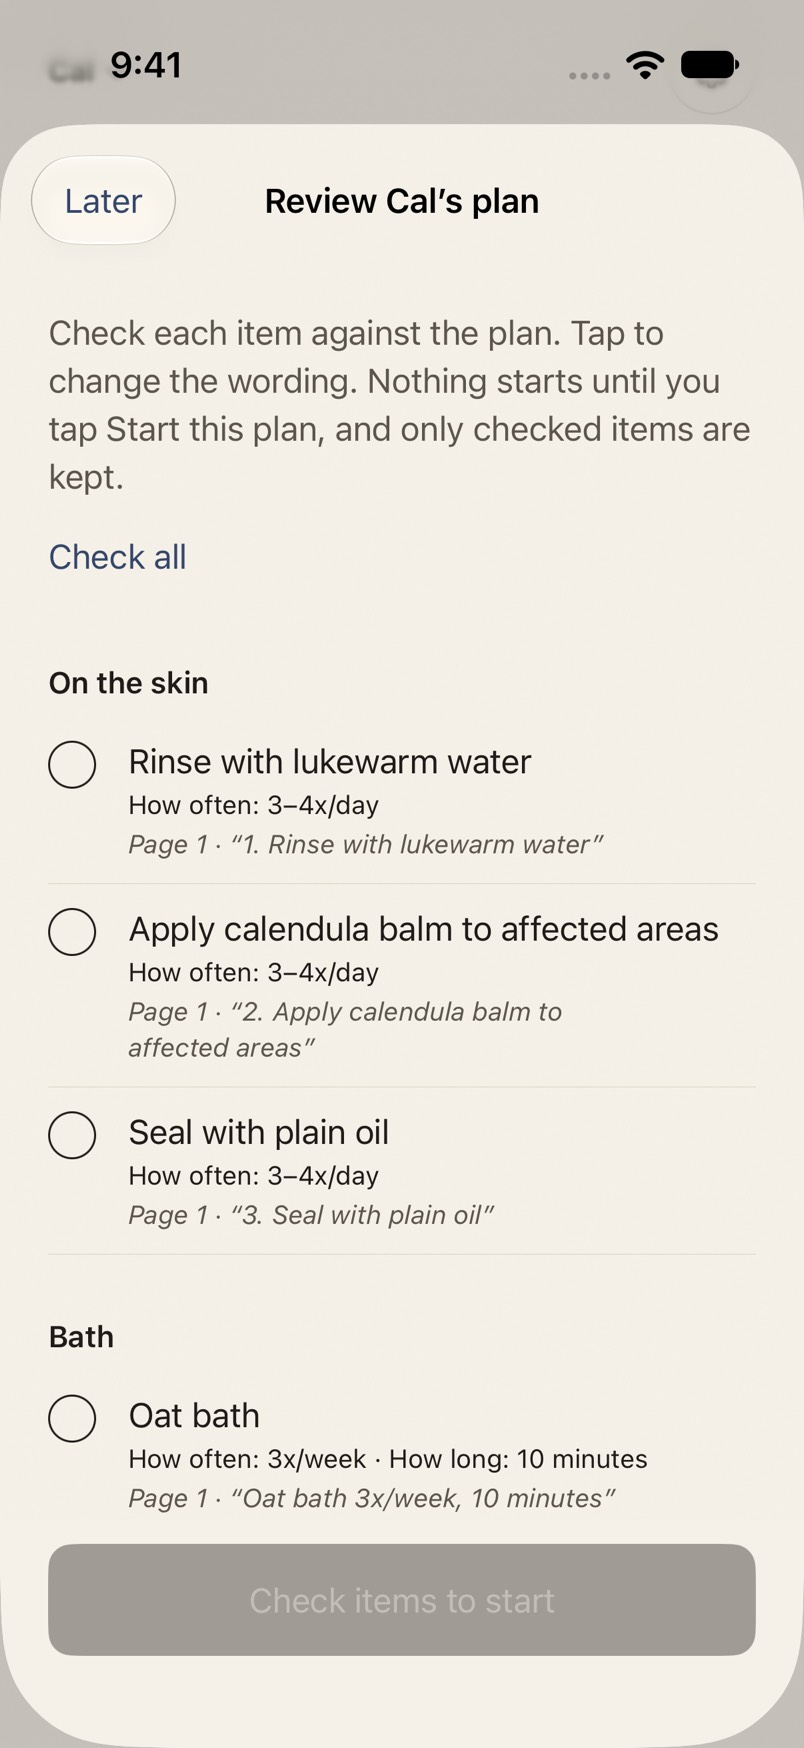
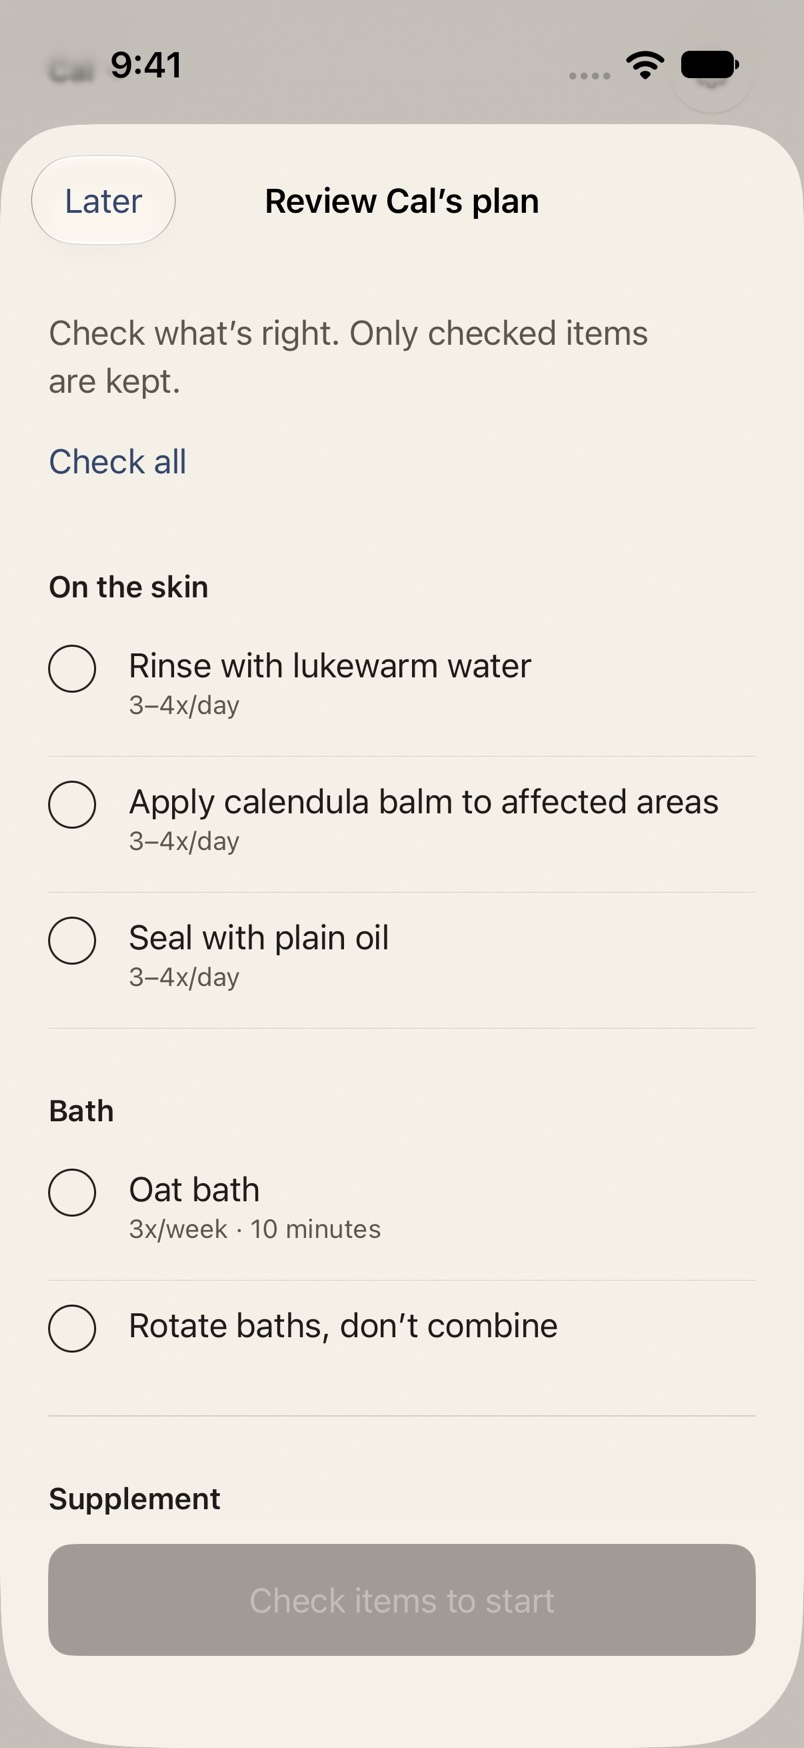
Care plan review: short and simple

diff --git a/App/Plans/PlanReviewView.swift b/App/Plans/PlanReviewView.swift
@@ -21,7 +21,7 @@ struct PlanReviewView: View {
             ScrollView {
                 VStack(alignment: .leading, spacing: Spacing.section) {
                     VStack(alignment: .leading, spacing: Spacing.x2) {
-                        Text("Check each item against the plan. Tap to change the wording. Nothing starts until you tap Start this plan, and only checked items are kept.")
+                        Text("Check what’s right. Only checked items are kept.")
                             .textStyle(.body)
                             .foregroundStyle(palette.graphite)
                             .fixedSize(horizontal: false, vertical: true)
@@ -50,7 +50,7 @@ struct PlanReviewView: View {
                     if let problem {
                         Text(problem).textStyle(.body).foregroundStyle(palette.ink)
                     }
-                    Button("Discard this draft") { confirmingDiscard = true }
+                    Button("Discard") { confirmingDiscard = true }
                         .buttonStyle(.textLink)
                 }
                 .padding(.horizontal, Spacing.margin)
@@ -59,7 +59,7 @@ struct PlanReviewView: View {
             }
             .paperBackground()
             .safeAreaInset(edge: .bottom) {
-                Button(confirmed == 0 ? "Check items to start" : "Start this plan (\(confirmed))") { Task { await start() } }
+                Button(confirmed == 0 ? "Check items to start" : "Start plan (\(confirmed))") { Task { await start() } }
                     .buttonStyle(.primary)
                     .disabled(confirmed == 0)
                     .padding(.horizontal, Spacing.margin)
@@ -156,26 +156,23 @@ private struct ItemRow: View {
             .accessibilityHint("Checks this item against the plan.")
 
             Button(action: onEdit) {
-                VStack(alignment: .leading, spacing: Spacing.x1) {
+                VStack(alignment: .leading, spacing: 2) {
                     Text(item.text)
                         .textStyle(.body)
                         .foregroundStyle(palette.ink)
-                    let details = PlanDetail.allCases.compactMap { detail in item.value(detail).map { "\(detail.title): \($0)" } }
+                    // Just the values, no labels ("1/4 tsp · once daily · with breakfast"),
+                    // skipping any already in the item's name.
+                    let details = PlanDetail.allCases.compactMap { item.value($0) }
+                        .filter { !item.text.localizedCaseInsensitiveContains($0) }
                     if !details.isEmpty {
                         Text(details.joined(separator: " · "))
                             .textStyle(.meta)
-                            .foregroundStyle(palette.ink)
-                    }
-                    ForEach(item.blanks, id: \.self) { blank in
-                        Text("\(blank.title): your provider left this blank. Worth asking at your next visit.")
-                            .textStyle(.meta)
                             .foregroundStyle(palette.graphite)
                     }
-                    if let line = item.sourceLine {
-                        Text("\(item.sourcePage.map { "Page \($0) · " } ?? "")“\(line)”")
+                    if let blank = item.blanks.first {
+                        Text("No \(blank.noun) given, ask at next visit")
                             .textStyle(.meta)
-                            .italic()
-                            .foregroundStyle(palette.graphite)
+                            .foregroundStyle(palette.ochre)
                     }
                 }
                 .fixedSize(horizontal: false, vertical: true)
@@ -183,7 +180,7 @@ private struct ItemRow: View {
                 .contentShape(Rectangle())
             }
             .buttonStyle(.plain)
-            .accessibilityHint("Edit the wording.")
+            .accessibilityHint("Shows where it's from in the plan, and lets you edit it.")
         }
         .padding(.vertical, Spacing.x3)
         .overlay(alignment: .bottom) { palette.hairline.frame(height: Rule.width) }

diff --git a/App/Plans/AddPlanSheet.swift b/App/Plans/AddPlanSheet.swift
@@ -31,7 +31,7 @@ struct AddPlanSheet: View {
         NavigationStack {
             ScrollView {
                 VStack(alignment: .leading, spacing: Spacing.section) {
-                    Text("Add the plan \(child.name)’s provider gave you. You’ll check every item before anything starts.")
+                    Text("You’ll check each item before it starts.")
                         .textStyle(.body)
                         .foregroundStyle(palette.graphite)
                         .fixedSize(horizontal: false, vertical: true)
@@ -55,7 +55,7 @@ struct AddPlanSheet: View {
                         }
                     }
 
-                    Text("The photo or PDF stays on this phone. Only its words are sent to be read, and nothing is kept afterward. Not medical advice: this only organizes what your provider wrote.")
+                    Text("The file stays on your phone. Not medical advice.")
                         .textStyle(.meta)
                         .foregroundStyle(palette.graphite)
                         .fixedSize(horizontal: false, vertical: true)
@@ -127,7 +127,7 @@ struct AddPlanSheet: View {
 
     private var signInFirst: some View {
         VStack(alignment: .leading, spacing: Spacing.x3) {
-            Text("Reading a plan needs you signed in, once. It keeps the reading service fair for everyone. Your logs stay on this phone either way.")
+            Text("Sign in once to read plans.")
                 .textStyle(.body)
                 .foregroundStyle(palette.ink)
                 .fixedSize(horizontal: false, vertical: true)
@@ -177,12 +177,12 @@ struct AddPlanSheet: View {
 
     /// Reads the text on the phone, sends only the text, and saves a draft.
     private func read(_ extract: () async throws -> (text: String, file: String)) async {
-        stage = .reading("Reading the pages on this phone…")
+        stage = .reading("Reading the pages…")
         var file: String?
         do {
             let extracted = try await extract()
             file = extracted.file
-            stage = .reading("Picking out each item…")
+            stage = .reading("Finding each item…")
             let items = try await PlanReader.read(extracted.text)
             guard !items.isEmpty else {
                 PlanFiles.delete(file)

diff --git a/App/Plans/CarePlanSection.swift b/App/Plans/CarePlanSection.swift
@@ -20,11 +20,11 @@ struct CarePlanSection: View {
                 .accessibilityAddTraits(.isHeader)
             switch plan?.status {
             case .draft?:
-                row("Finish reviewing your plan", detail: plan.map(providerLine)) { reviewing = plan }
+                row("Finish checking your plan", detail: plan.map(providerLine)) { reviewing = plan }
             case .active?:
                 row("About this plan", detail: plan.map(providerLine)) { showingAbout = true }
             default:
-                Text("Add the plan from \(model.child?.name ?? "your child")’s provider. You check every item before it starts.")
+                Text("Scan or pick the plan from \(model.child?.name ?? "your child")’s provider.")
                     .textStyle(.body)
                     .foregroundStyle(palette.graphite)
                     .fixedSize(horizontal: false, vertical: true)

diff --git a/DesignReviewUITests/PlanReviewCaptureTests.swift b/DesignReviewUITests/PlanReviewCaptureTests.swift
@@ -14,7 +14,7 @@ final class PlanReviewCaptureTests: XCTestCase {
         app.swipeUp()
         sleep(1)
         Capture.screen("careplan-section-\(variant)")
-        app.buttons.matching(NSPredicate(format: "label BEGINSWITH %@", "Finish reviewing")).firstMatch.tap()
+        app.buttons.matching(NSPredicate(format: "label BEGINSWITH %@", "Finish checking")).firstMatch.tap()
         sleep(2)
         Capture.screen("careplan-review-\(variant)")
         app.buttons["Check all"].firstMatch.tap()

diff --git a/Core/Data/CarePlanKinds.swift b/Core/Data/CarePlanKinds.swift
@@ -48,6 +48,16 @@ public enum PlanDetail: String, Codable, Sendable, CaseIterable {
         case .duration: "How long"
         }
     }
+
+    /// For "No dose given": dose, schedule, time, length.
+    public var noun: String {
+        switch self {
+        case .dose: "dose"
+        case .frequency: "schedule"
+        case .timing: "time"
+        case .duration: "length"
+        }
+    }
 }
 
 extension PlanItemInfo {

diff --git a/UX.md b/UX.md
@@ -154,13 +154,13 @@ Job: follow the care plan without thinking about it.
    - Add: sign in once (Sign in with Apple), then scan the pages, choose
      a PDF or file, or choose photos. The phone reads the words; only the
      words are sent, and nothing is kept. The file stays on the phone.
-   - Review: items grouped by kind, each with a check, the plan's words,
-     its details, "Dose: your provider left this blank. Worth asking at
-     your next visit." for missing details, and the source line in
-     italics ("Page 2 · “Vitamin D3, Brand B, dose at next visit”").
-     Tap to edit (the source line never changes), press and hold to
-     remove, "Check all". "Start this plan (N)" keeps only checked items;
-     "Later" keeps the draft; "Discard this draft" removes it and the file.
+   - Review (kept short): "Check what's right. Only checked items are
+     kept." Items grouped by kind, each a check, the plan's words, the
+     values only ("1/4 tsp · once daily"), and "No dose given, ask at next
+     visit" in ochre when a detail is missing. Tap an item to see its
+     source line and edit it; press and hold to remove; "Check all".
+     "Start plan (N)" keeps only checked items; "Later" keeps the draft;
+     "Discard" removes it and the file.
 
 Not built yet:
 - What a started plan does in Plan: its steps, baths, patch tests (4.4),

diff --git a/docs/06-decisions.md b/docs/06-decisions.md
@@ -395,3 +395,9 @@ From the owner's widget brief, designed on the canvas under "Widgets & setup".
 - **The reader is live (September 29):**
   - With the key, the workspace ID, and no `temperature` (the model rejects it), the example plan returned 24 items. None were dropped and no details were removed as ungrounded.
   - Blanks are flagged only when an item gives some of its expected details, so "rotate after 3 weeks" or "start probiotic 2 weeks after" aren't marked as missing a dose.
+- **Simpler review (the owner said the review was "very wordy… it should be simple"):**
+  - One short line at the top: "Check what's right. Only checked items are kept."
+  - Each item shows its name and then only the values ("1/4 tsp · once daily · with breakfast"), with no labels and nothing repeated from the name.
+  - A blank reads "No dose given, ask at next visit" in ochre (the "worth watching" color).
+  - The quoted source line appears only when the item is opened.
+  - The add sheet and the Plan section are down to one line each. The buttons say "Start plan (N)" and "Discard".
